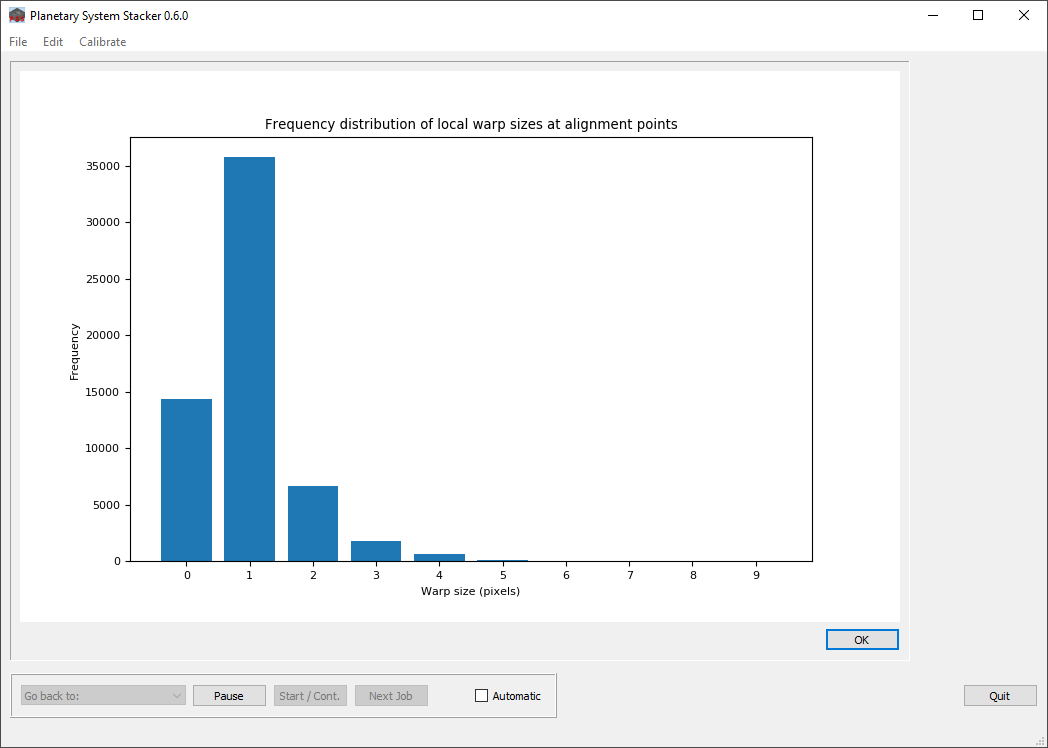
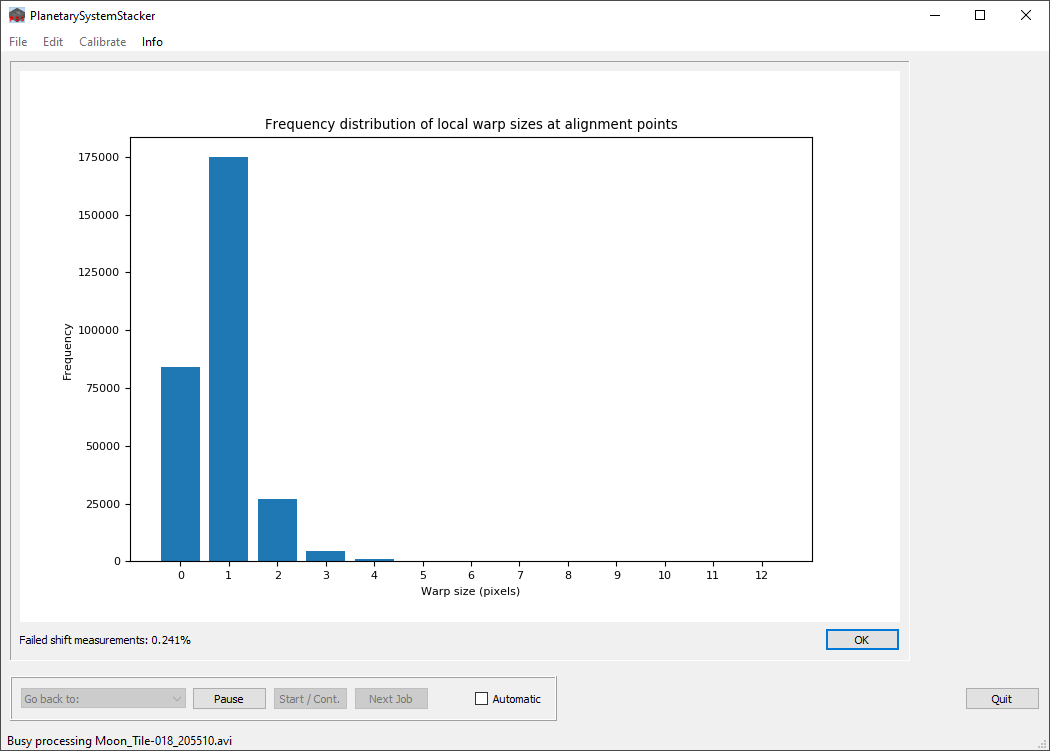
Illustrations updated, failed shift percentage displayed only if APs are selected

diff --git a/Source/shift_distribution_viewer.py b/Source/shift_distribution_viewer.py
@@ -118,12 +118,15 @@ class ShiftDistributionViewerWidget(QtWidgets.QFrame, Ui_shift_distribution_view
         self.matplotlib_widget.draw_distribution(self.shift_distribution)
 
         # Display the fraction of failed shift measurements. Use red ink if the value exceeds 5%.
-        self.failedShiftsLabel.setText(
-            "Failed shift measurements: " + str(shift_failure_percent) + "%")
-        if shift_failure_percent > 5.:
-            self.failedShiftsLabel.setStyleSheet('color: red')
+        if shift_failure_percent >= 0.:
+            self.failedShiftsLabel.setText(
+                "Failed shift measurements: " + str(shift_failure_percent) + "%")
+            if shift_failure_percent > 5.:
+                self.failedShiftsLabel.setStyleSheet('color: red')
+            else:
+                self.failedShiftsLabel.setStyleSheet('color: black')
         else:
-            self.failedShiftsLabel.setStyleSheet('color: black')
+            self.failedShiftsLabel.setText("")
 
     def accept(self):
         """

diff --git a/Source/stack_frames.py b/Source/stack_frames.py
@@ -434,7 +434,8 @@ class StackFrames(object):
             self.shift_failure_percent = round(
                 100. * self.shift_failure_counter / self.shift_entries_total, 3)
         else:
-            self.shift_failure_percent = 0.
+            # If the value is <0, the percentage is not printed.
+            self.shift_failure_percent = -1.
 
         # In debug mode: Close de-warp visualization window.
         if self.debug:
